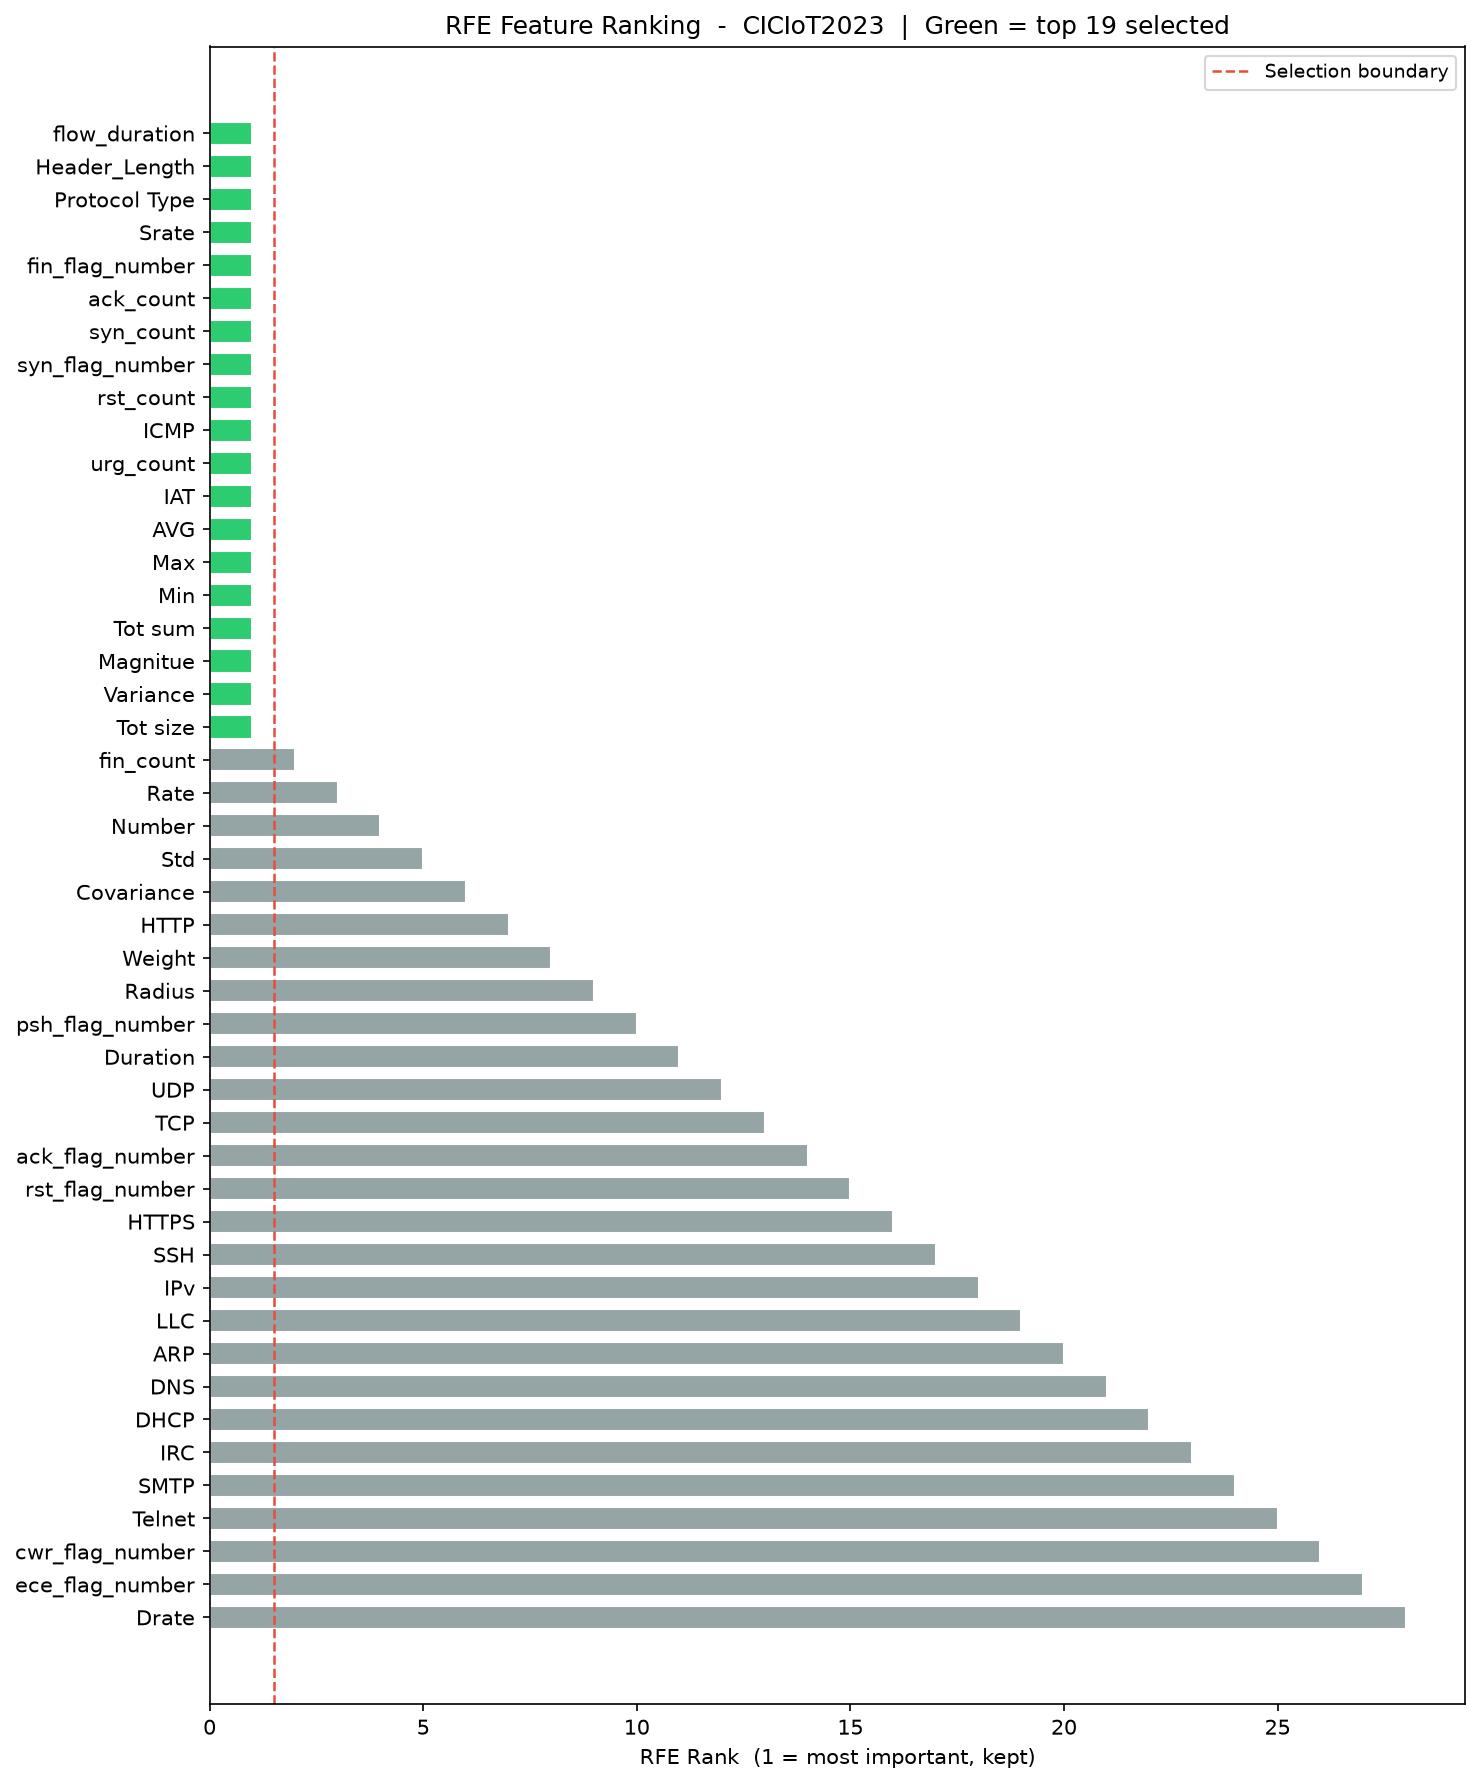
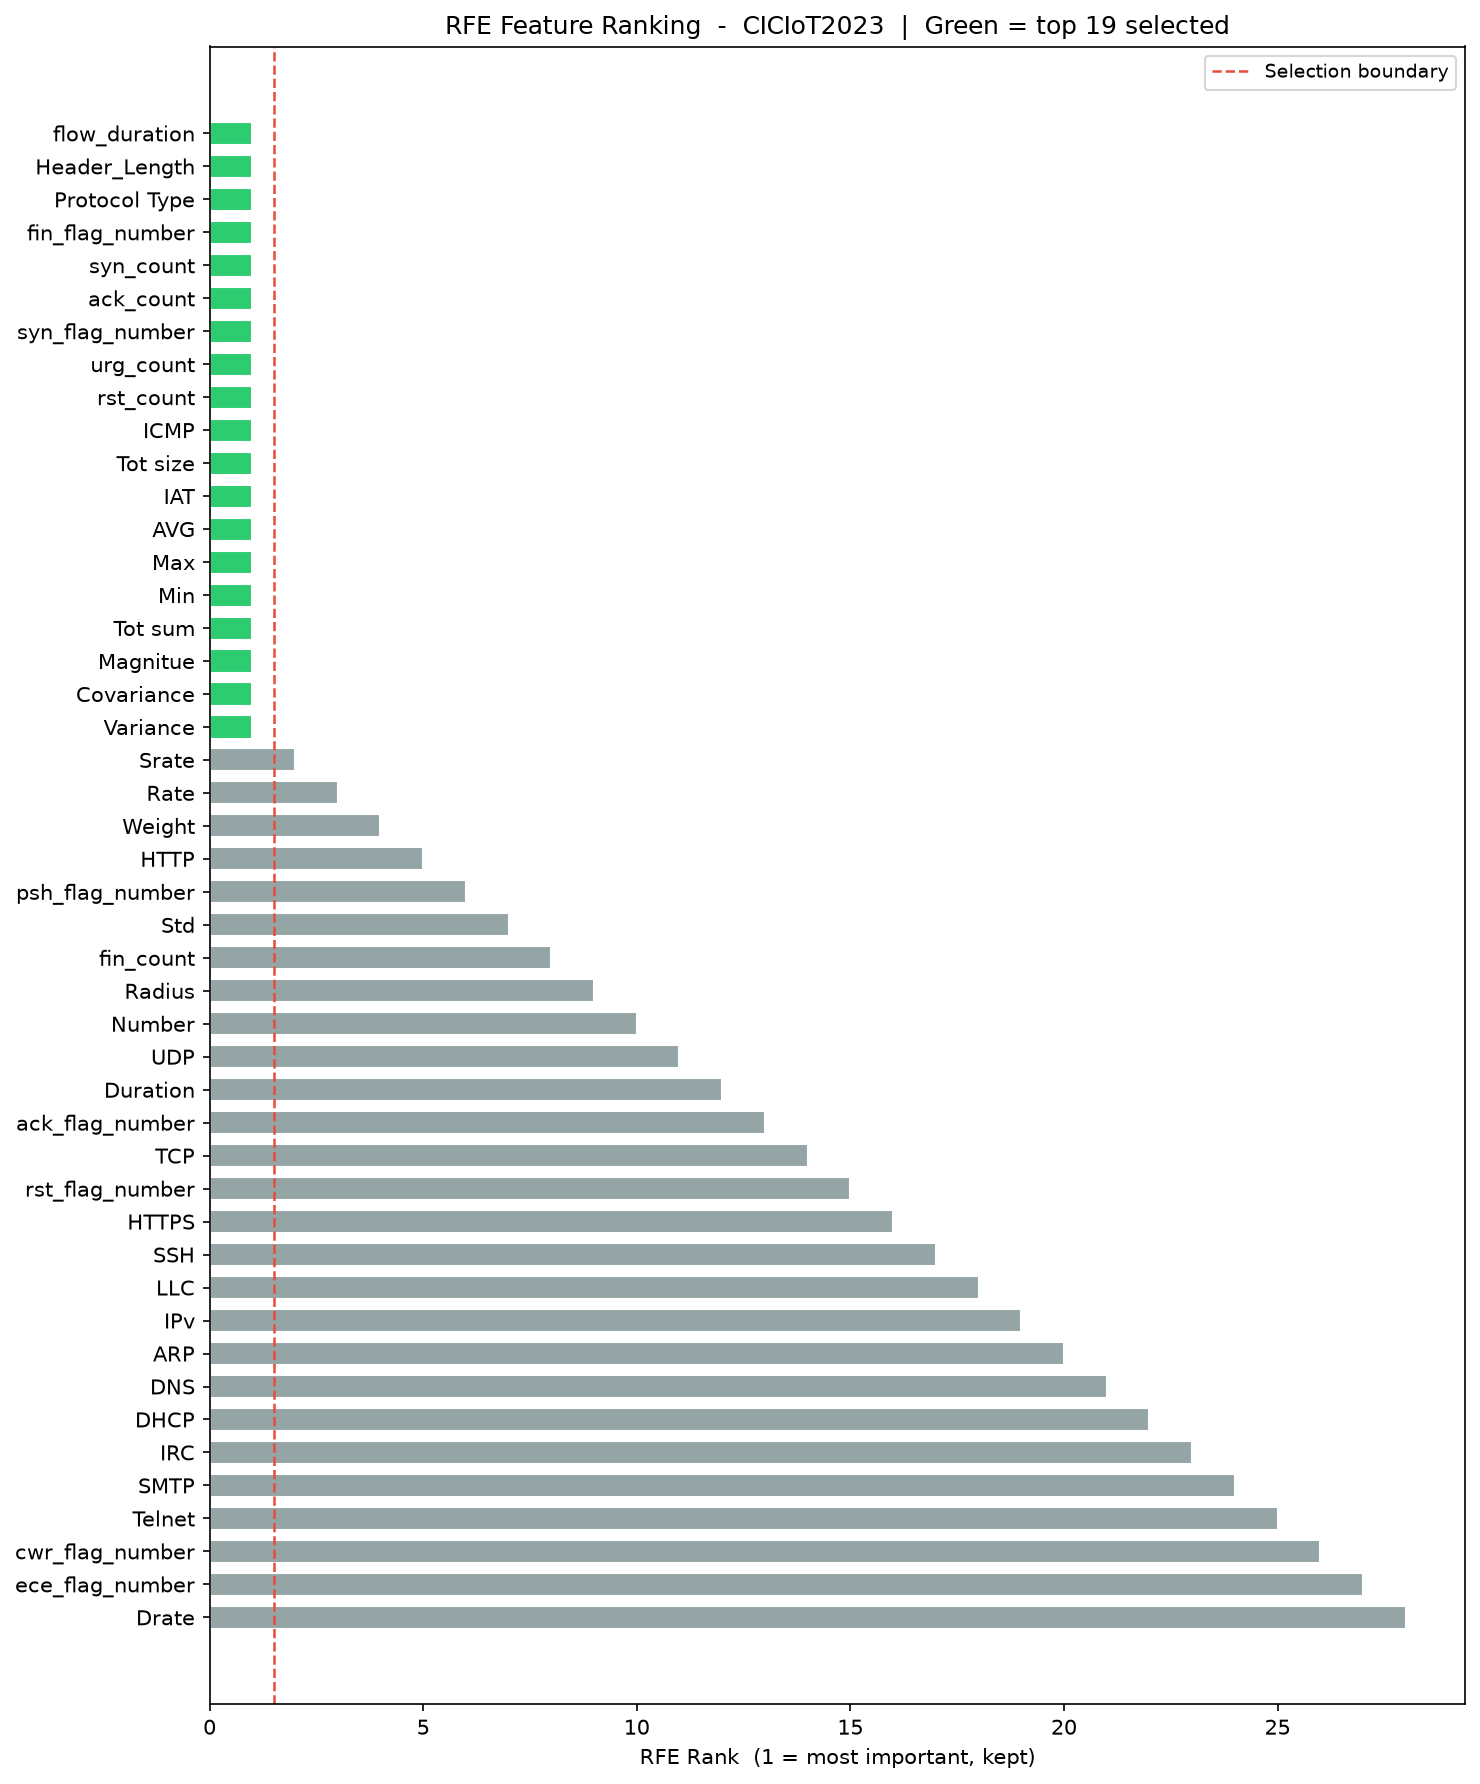
docs(reports): update summary report and artifacts with real post-fix pipeline run metrics

diff --git a/reports/summary.md b/reports/summary.md
@@ -1,7 +1,8 @@
 # Phase 1 & 2 - Pipeline Summary
 
-> Generated: 2026-10-29 00:43:09  
-> Runtime: 244.8 s  
+> Generated: 2026-10-29 01:16:40  
+> Runtime: 115.4 s  
+> Peak memory (RSS): 298.9 MB (0.29 GB)  
 > Random seed: 42
 
 ---
@@ -9,7 +10,7 @@
 ## Phase 1 - Data Ingestion
 
 ### Dataset: CICIoT2023
-- Source files: `train.csv` + `test.csv` (raw CSVs in `data/raw/`)
+- Source files: `train.csv` + `test.csv` (raw CSVs located at `D:\IROP MODEL\CICIOT23`)
 - Columns in raw CSV: **47** (46 numeric features + 1 label column)
 - Sample per fine-grained class: **5000**
 
@@ -80,6 +81,49 @@ See `reports/class_distribution.png`
 > **Imbalance observation**: Some attack classes have far fewer samples
 > than others. SMOTE corrects this for training (see Phase 2 below).
 
+### Class Support Breakdown (Real Rows: Train vs. Test)
+> **Low Support Warning**: Attack classes with fewer than 100 test rows are flagged.
+> Their performance metrics must be interpreted with caution due to low statistical support.
+
+| # | Fine-Grained Class | 8-Class Group | Train (Real) | Test (Real) | Total Real | Support Note |
+|:---|:---|:---|:---:|:---:|:---:|:---|
+| 1 | `Backdoor_Malware` | Web-based | 378 | 95 | 473 | ⚠ **low support, interpret with caution** |
+| 2 | `BenignTraffic` | Benign | 3,998 | 1,000 | 4,998 | Normal |
+| 3 | `BrowserHijacking` | Web-based | 619 | 155 | 774 | Normal |
+| 4 | `CommandInjection` | Web-based | 578 | 144 | 722 | Normal |
+| 5 | `DDoS-ACK_Fragmentation` | DDoS | 3,979 | 995 | 4,974 | Normal |
+| 6 | `DDoS-HTTP_Flood` | DDoS | 3,178 | 794 | 3,972 | Normal |
+| 7 | `DDoS-ICMP_Flood` | DDoS | 3,891 | 973 | 4,864 | Normal |
+| 8 | `DDoS-ICMP_Fragmentation` | DDoS | 3,982 | 996 | 4,978 | Normal |
+| 9 | `DDoS-PSHACK_Flood` | DDoS | 3,934 | 983 | 4,917 | Normal |
+| 10 | `DDoS-RSTFINFlood` | DDoS | 3,877 | 969 | 4,846 | Normal |
+| 11 | `DDoS-SYN_Flood` | DDoS | 3,973 | 993 | 4,966 | Normal |
+| 12 | `DDoS-SlowLoris` | DDoS | 2,630 | 657 | 3,287 | Normal |
+| 13 | `DDoS-SynonymousIP_Flood` | DDoS | 3,966 | 992 | 4,958 | Normal |
+| 14 | `DDoS-TCP_Flood` | DDoS | 3,958 | 990 | 4,948 | Normal |
+| 15 | `DDoS-UDP_Flood` | DDoS | 3,998 | 1,000 | 4,998 | Normal |
+| 16 | `DDoS-UDP_Fragmentation` | DDoS | 3,982 | 996 | 4,978 | Normal |
+| 17 | `DNS_Spoofing` | Spoofing | 3,978 | 994 | 4,972 | Normal |
+| 18 | `DictionaryBruteForce` | BruteForce | 1,430 | 358 | 1,788 | Normal |
+| 19 | `DoS-HTTP_Flood` | DoS | 3,939 | 985 | 4,924 | Normal |
+| 20 | `DoS-SYN_Flood` | DoS | 3,985 | 996 | 4,981 | Normal |
+| 21 | `DoS-TCP_Flood` | DoS | 3,963 | 991 | 4,954 | Normal |
+| 22 | `DoS-UDP_Flood` | DoS | 3,994 | 999 | 4,993 | Normal |
+| 23 | `MITM-ArpSpoofing` | Spoofing | 3,986 | 997 | 4,983 | Normal |
+| 24 | `Mirai-greeth_flood` | Mirai | 3,920 | 980 | 4,900 | Normal |
+| 25 | `Mirai-greip_flood` | Mirai | 3,927 | 982 | 4,909 | Normal |
+| 26 | `Mirai-udpplain` | Mirai | 3,994 | 998 | 4,992 | Normal |
+| 27 | `Recon-HostDiscovery` | Recon | 3,965 | 991 | 4,956 | Normal |
+| 28 | `Recon-OSScan` | Recon | 3,962 | 990 | 4,952 | Normal |
+| 29 | `Recon-PingSweep` | Recon | 237 | 59 | 296 | ⚠ **low support, interpret with caution** |
+| 30 | `Recon-PortScan` | Recon | 3,955 | 989 | 4,944 | Normal |
+| 31 | `SqlInjection` | Web-based | 574 | 143 | 717 | Normal |
+| 32 | `Uploading_Attack` | Web-based | 138 | 34 | 172 | ⚠ **low support, interpret with caution** |
+| 33 | `VulnerabilityScan` | Recon | 3,894 | 973 | 4,867 | Normal |
+| 34 | `XSS` | Web-based | 403 | 101 | 504 | Normal |
+
+> **Identified 3 low-support classes (<100 test rows)**: `Backdoor_Malware` (95 rows), `Recon-PingSweep` (59 rows), `Uploading_Attack` (34 rows)
+
 ---
 
 ## Phase 2 - Preprocessing
@@ -98,8 +142,9 @@ See `reports/class_distribution.png`
 
 ### Step 3 - Train / Test Split
 - **Ratio**: 80/20  (stratified on `label_34`)
-- **Train rows**: 340,000
-- **Test rows** : 26,292
+- **Train rows before SMOTE (real)**: 105,165
+- **Train rows after SMOTE (real + synthetic)**: 132,061
+- **Test rows (never resampled)**: 26,292
 - [OK] Zero index overlap confirmed (no data leakage)
 
 ### Step 4 - StandardScaler
@@ -109,8 +154,12 @@ See `reports/class_distribution.png`
 
 ### Step 5 - SMOTE (class balancing)
 - Applied to **train set only** (test set unchanged)
-- Strategy: oversample minority classes up to 10,000 rows each
-- Train rows after SMOTE: **340,000**
+- Target per class: **3,998** (size of largest train class, bounded by SAMPLE_PER_CLASS)
+- Safety cap: maximum **10x** synthetic rows per class
+- Real train rows: **105,165**
+- Synthetic train rows created: **26,896** (20.4% synthetic)
+- Train rows after SMOTE: **132,061**
+- Note on flag features: Some features are 0/1 flags or protocol codes; SMOTE creates in-between values for them.
 
 ### Step 6 - Feature Selection (RFE)
 
@@ -129,32 +178,57 @@ See `reports/class_distribution.png`
 | 1 | `flow_duration` |
 | 2 | `Header_Length` |
 | 3 | `Protocol Type` |
-| 4 | `Srate` |
-| 5 | `fin_flag_number` |
+| 4 | `fin_flag_number` |
+| 5 | `syn_count` |
 | 6 | `ack_count` |
-| 7 | `syn_count` |
-| 8 | `syn_flag_number` |
+| 7 | `syn_flag_number` |
+| 8 | `urg_count` |
 | 9 | `rst_count` |
 | 10 | `ICMP` |
-| 11 | `urg_count` |
+| 11 | `Tot size` |
 | 12 | `IAT` |
 | 13 | `AVG` |
 | 14 | `Max` |
 | 15 | `Min` |
 | 16 | `Tot sum` |
 | 17 | `Magnitue` |
-| 18 | `Variance` |
-| 19 | `Tot size` |
+| 18 | `Covariance` |
+| 19 | `Variance` |
 
 See `reports/rfe_ranking.png` for the full ranking chart.
 
 ### Step 7 - Final Output
 | File | Shape | Location |
 |------|-------|----------|
-| train_phase2.parquet | (340000, 21) | `data/processed/` |
+| train_phase2.parquet | (132061, 21) | `data/processed/` |
 | test_phase2.parquet  | (26292, 21)  | `data/processed/` |
 
 Columns in Parquet files: `[19 features] + label_34 + label_8`
+
+---
+
+## Smoke test (not the final result)
+> **Notice**: This baseline Random Forest test (100 trees) on the 19 selected features confirms
+> preprocessing data integrity. The final detection engine (Phase 3: Random Forest + XGBoost + DNN
+> ensemble) will be trained on the full dataset with proper tuning.
+
+- **8-Class Smoke-Test Accuracy**: **95.21%**
+- **34-Class Smoke-Test Accuracy**: **92.56%**
+
+### 8-Class Classification Report
+| Class | Precision | Recall | F1-Score | Support |
+|:---|:---:|:---:|:---:|:---:|
+| Benign | 0.8446 | 0.7720 | 0.8067 | 1,000 |
+| DDoS | 0.9986 | 0.9991 | 0.9989 | 11,338 |
+| DoS | 0.9987 | 0.9985 | 0.9986 | 3,971 |
+| Recon | 0.9004 | 0.8963 | 0.8983 | 4,002 |
+| Web-based | 0.5302 | 0.8363 | 0.6490 | 672 |
+| BruteForce | 0.8034 | 0.6620 | 0.7259 | 358 |
+| Spoofing | 0.9188 | 0.8182 | 0.8656 | 1,991 |
+| Mirai | 1.0000 | 0.9973 | 0.9986 | 2,960 |
+| **Overall Accuracy** | | | **0.9521** | 26,292 |
+| **Macro Avg** | 0.8743 | 0.8725 | 0.8677 | 26,292 |
+| **Weighted Avg** | 0.9573 | 0.9521 | 0.9534 | 26,292 |
 
 ---
 
@@ -176,3 +250,4 @@ The following artifacts are ready for Phase 3 (Classifier):
 4. PCAP demo (`ingest/pcap_demo.py`) is standalone; run manually if needed.
 5. Benchmark datasets (UNSW-NB15, NSL-KDD, Bot-IoT) are Phase 3+ stubs.
 6. '115 --> 19' in slides should be corrected to '**46 --> 19**' for CICIoT2023.
+7. Note on SMOTE and flag features: Some features are 0/1 flags or protocol codes; SMOTE creates in-between values for them.
